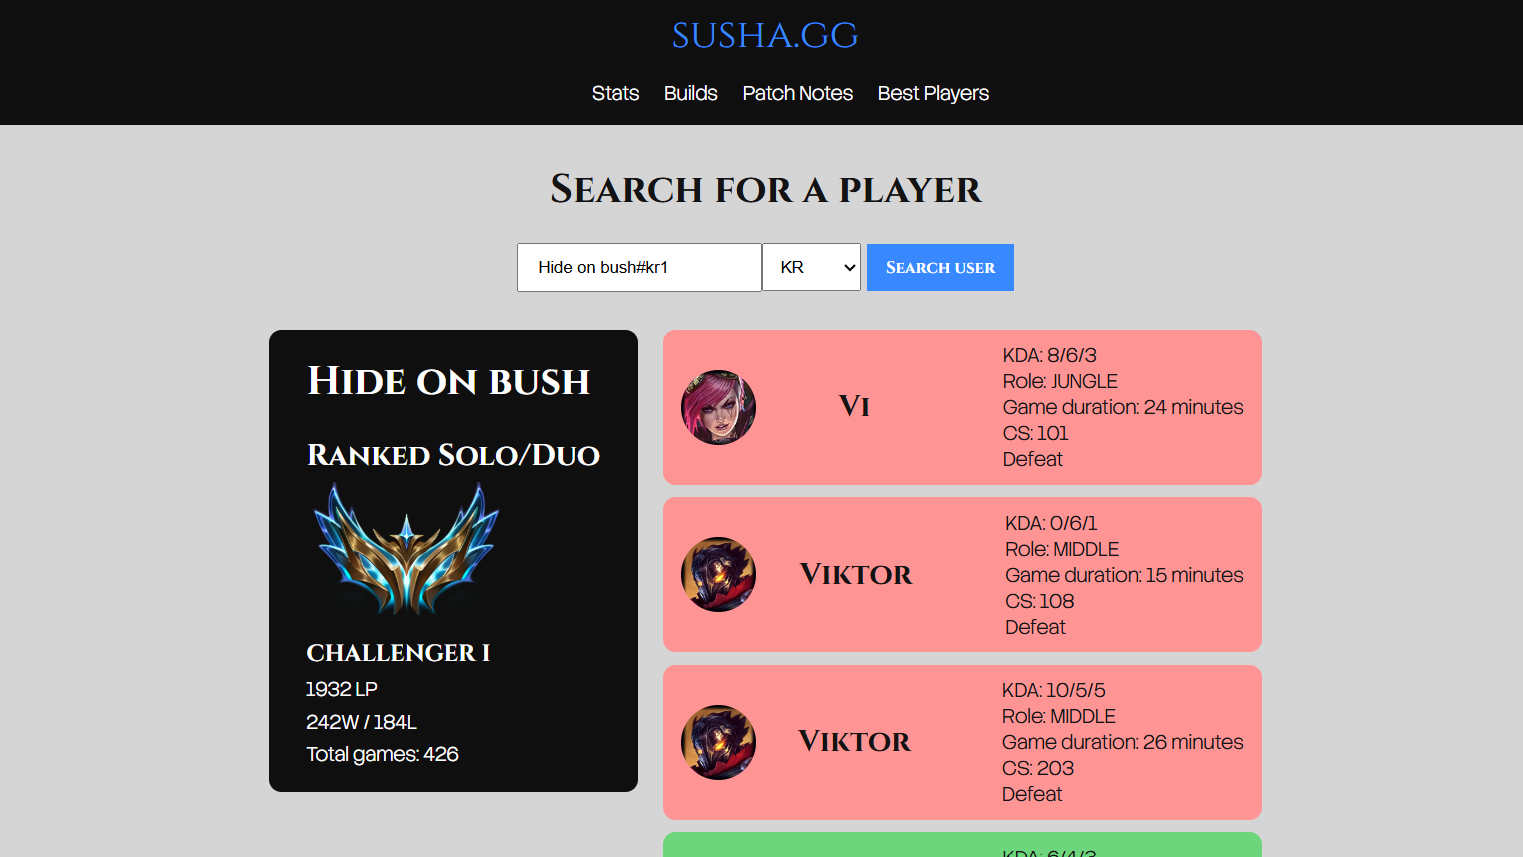
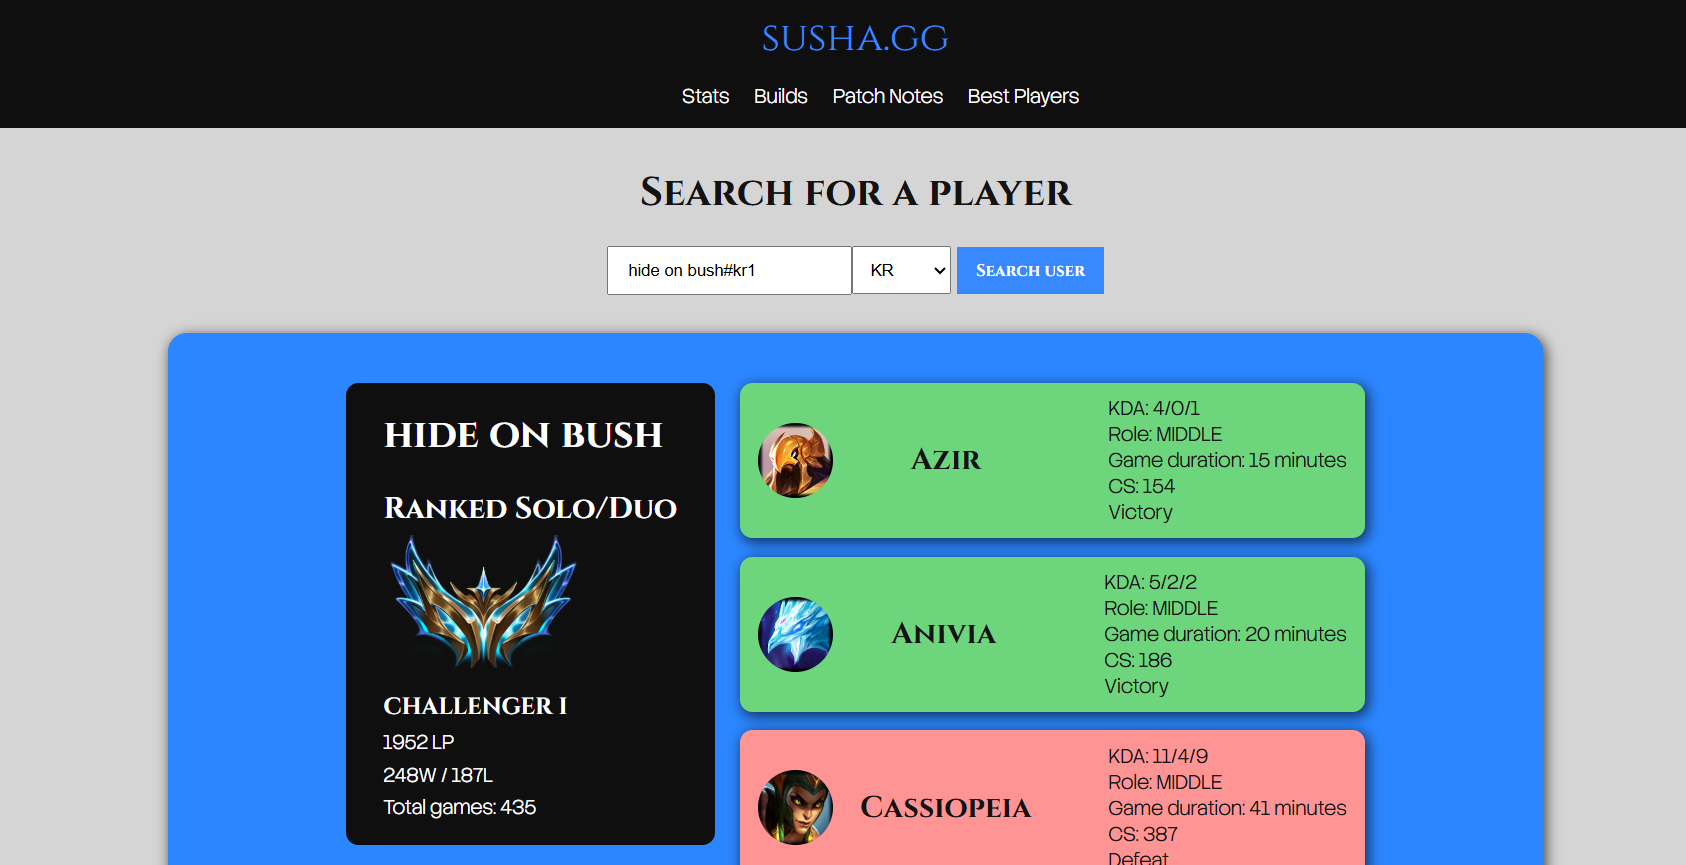
Added Loading state and improved error handling. Also changed the UI slightly

diff --git a/susha-gg/src/App.css b/susha-gg/src/App.css
@@ -87,14 +87,19 @@ h1, h2, h3, h4, h5 {
 
 /* 3. Content */
 .content-container {
-  display: flex;
-  flex-direction: row;
-  flex-wrap: wrap;
-  align-items: flex-start;
-  justify-content: center;
-  /* width: 100%; */
-  gap: 20px;
-  /* background-color: black; */
+ display: flex;
+    max-width: 1100px;
+    flex-direction: row;
+    flex-wrap: wrap;
+    align-items: flex-start;
+    justify-content: center;
+    /* width: 100%; */
+    margin: 0 auto;
+    gap: 20px;
+    background-color: #2b86ff;
+    padding: 40px 0;
+    border-radius: 15px;
+      box-shadow: 2px 3px 10px 1px #00000099;
 }
 
 .match-card {
@@ -104,8 +109,9 @@ h1, h2, h3, h4, h5 {
   justify-content: space-between;
   gap: 10px;
   padding: 10px 15px;
-  margin-bottom: 10px;
+  margin-bottom: 15px;
   border-radius: 10px;
+  box-shadow: 2px 3px 10px 1px #00000099;
 }
 
 .match-card img {
@@ -160,3 +166,26 @@ margin: 5px 0;
   height: auto;
   object-fit: contain;
 }
+/* Loading icon */
+
+.loader {
+  width: 80px;
+  height: 80px;
+  border: 8px solid #d3d3d3;
+  border-top: 8px solid #3888ff;
+  border-radius: 50%;
+
+  animation: spin 1s ease infinite;
+  margin: 2rem auto;
+}
+
+@keyframes spin {
+  from {
+    transform: rotate(0deg);
+  }
+
+  to {
+    transform: rotate(360deg);
+  }
+}
+

diff --git a/susha-gg/src/App.tsx b/susha-gg/src/App.tsx
@@ -1,7 +1,7 @@
-import { useState } from 'react'
+import { useState} from 'react'
 import Navbar from './components/Navbar'
 import Search from './components/Search'
-import Content from './components/Content'  
+import Content from './components/Content'
 
 import './App.css'
 
@@ -35,25 +35,41 @@ export type PlayerData = {
   simplifiedMatches: SimplifiedMatch[];
 };
 
+
+
+
 function App() {
   const [playerData, setPlayerData] = useState<PlayerData | null>(null);
+  const [isLoading, setIsLoading] = useState(false);
+  const [error, setError] = useState("");
 
- function updateData(newData: PlayerData) {
-  setPlayerData(newData);
-}
+
+  function updateData(newData: PlayerData) {
+    setPlayerData(newData);
+  }
+
+  function updateLoadingState(loadingState: boolean){
+    setIsLoading(loadingState);
+  }
+
+  function setErrorMessage(errorMessage: string){
+      setError(errorMessage);
+  }
 
 
   return (
     <>
-    <Navbar />
-    <main>
-        <Search updateData={updateData} />
-        <div className="content-container">
-          <Content playerData={playerData} />
-        </div>
-    </main>
+      <Navbar />
+      <main>
+        <Search updateData={updateData} updateLoadingState={updateLoadingState} updateError={setErrorMessage}/>
+        {error && <h1 style={{textAlign: "center", color: "#f42b2b"}}>{error}</h1>}
+      
+         {isLoading && <div className="loader"></div>} 
+         {!isLoading && playerData && <Content playerData={playerData} />}
+
+      </main>
     </>
   )
 }
 
-export default App
+export default App;

diff --git a/backend/server.ts b/backend/server.ts
@@ -36,31 +36,27 @@ function isRegion(value: string): value is Region {
 }
 
 async function riotFetch(url: string) {
-  if (!RIOT_API_KEY) {
-    throw new Error("Missing RIOT_API_KEY in .env");
-  }
-
   const response = await fetch(url, {
     headers: {
-      "X-Riot-Token": RIOT_API_KEY,
+      "X-Riot-Token": process.env.RIOT_API_KEY!,
     },
   });
 
   if (!response.ok) {
-    const errorText = await response.text();
+    const error: any = new Error(
+      `Riot API responded with ${response.status}`
+    );
 
-    console.error("Riot API failed:");
-    console.error("URL:", url);
-    console.error("Status:", response.status);
-    console.error("Body:", errorText);
+    error.status = response.status;
 
-    throw new Error(`Riot API error: ${response.status}`);
+    throw error;
   }
 
   return response.json();
 }
 
 app.get("/getPlayer", async (req, res) => {
+
   try {
     const gameId = String(req.query.gameid || "");
     const region = String(req.query.region || "").toUpperCase();
@@ -161,12 +157,16 @@ try {
       matchIds,
       simplifiedMatches,
     });
-  } catch (error) {
-    console.error(error);
-
-    res.status(500).json({
+  } catch (error: any) {
+    if(error.status == 404){
+      return res.status(404).json({
+      error: "Results not found for this player",
+    });
+     }else {
+     return res.status(500).json({
       error: "Something went wrong while fetching player data",
     });
+    }
   }
 });
 

diff --git a/susha-gg/src/components/Search.tsx b/susha-gg/src/components/Search.tsx
@@ -4,9 +4,11 @@ import type { PlayerData } from "../App";
 
 type SearchProps = {
   updateData: (newData: PlayerData) => void;
+  updateLoadingState: (loadingState: boolean) => void;
+  updateError: (errorMessage: string) => void;
 };
 
-export default function Search({ updateData }: SearchProps){
+export default function Search({ updateData, updateLoadingState, updateError }: SearchProps){
 const [gameId, setGameId] = useState("");
 // const [tag, setTag] = useState("");
 const [region, setRegion] = useState("EUNE");
@@ -17,10 +19,13 @@ const [region, setRegion] = useState("EUNE");
 
 
 async function handleSubmit(e: React.FormEvent){
-
+    // updateData();
+    updateError("");
+    updateLoadingState(true);
     e.preventDefault();
 
-    const parameters = new URLSearchParams({
+    try {
+        const parameters = new URLSearchParams({
         gameid: gameId,
         region: region,
     });
@@ -30,8 +35,17 @@ async function handleSubmit(e: React.FormEvent){
     const response = await fetch(`http://localhost:3000/getPlayer?${parameters.toString()}`);
     console.log(`{http://localhost:3000/getPlayer?${parameters.toString()}`)
     const data = await response.json();
+
+    if(data.error){
+        console.log(data.error);
+        updateError(data.error);
+    } else {
     console.log(data);
     updateData(data);
+    }
+    } finally {
+        updateLoadingState(false);
+    }
 }
 
 

diff --git a/susha-gg/src/components/Leaderboards.tsx b/susha-gg/src/components/Leaderboards.tsx
@@ -1,0 +1,7 @@
+export default function Leaderboards(){
+return(
+    <div>
+        <h1>Leaderboards</h1>
+    </div>
+)
+}

diff --git a/susha-gg/src/components/Content.tsx b/susha-gg/src/components/Content.tsx
@@ -3,14 +3,14 @@ import RankedSoloCard from "./RankedSoloCard";
 
 type ContentProps = {
   playerData: PlayerData | null;
+  // errorMessage: string;
 };
 
 export default function Content({ playerData }: ContentProps) {
 
   if (!playerData) {
-    return <h1>Search for a player?</h1>
+    return null;
   }
-
   return (
     <div className="content-container">
       <div className="player-info">